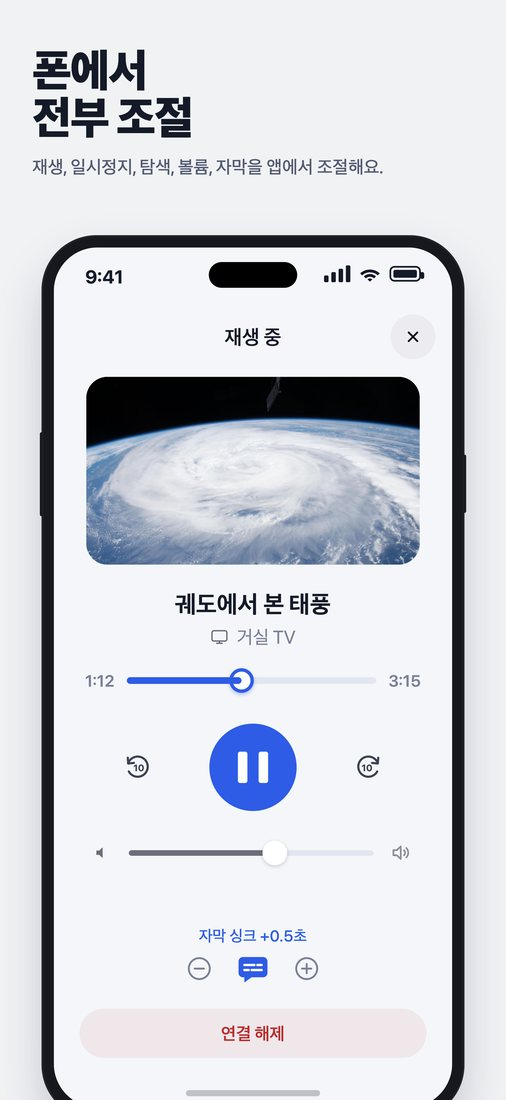
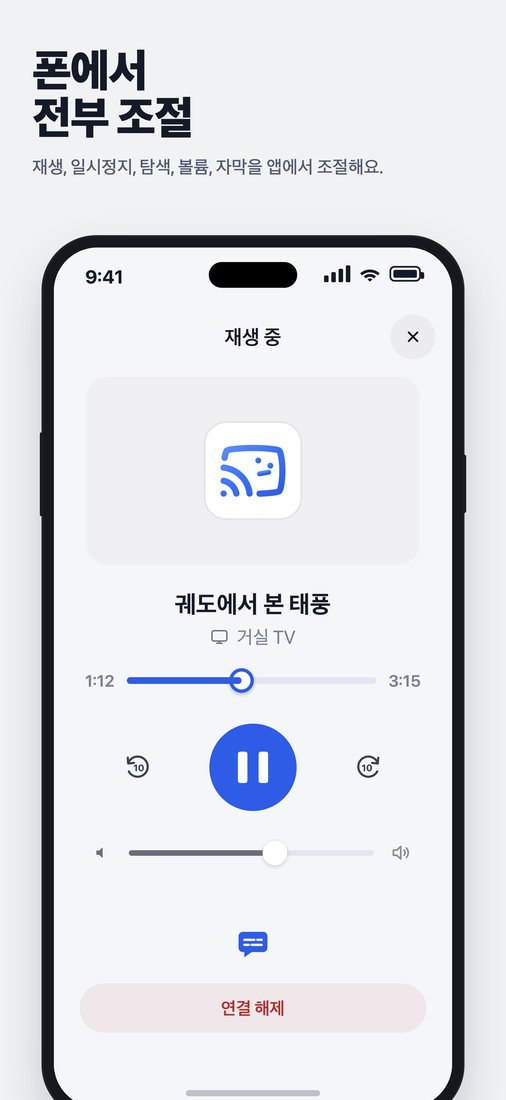
fix: Cast to TV 가이드에서 자막 싱크 조절 문구와 4번 화면을 앱과 맞춤
앱에서 자막 싱크 조절과 캐스트 중 썸네일이 빠져 가이드의 기능 목록과
4번 이미지를 현재 앱 화면에 맞춘다.

Changed region(s): [[0.1482, 0.34, 0.83, 0.5255], [0.3557, 0.8345, 0.6225, 0.9582]]

diff --git a/cast-to-tv/guide/index.html b/cast-to-tv/guide/index.html
@@ -111,7 +111,7 @@
     <h2>이런 것까지 됩니다</h2>
     <ul class="checks">
       <li>m3u8 라이브 방송, MP4·WebM·MOV 영상</li>
-      <li>자막(WebVTT) 표시와 싱크 조절</li>
+      <li>자막(WebVTT) 표시</li>
       <li>폰에 저장된 영상도 TV로</li>
       <li>잠금화면에서 재생·일시정지·탐색</li>
       <li>다른 앱 써도 TV는 계속 재생</li>

diff --git a/cast-to-tv/guide/en/index.html b/cast-to-tv/guide/en/index.html
@@ -111,7 +111,7 @@
     <h2>What it can do</h2>
     <ul class="checks">
       <li>M3U8 live streams, MP4, WebM and MOV videos</li>
-      <li>Subtitles (WebVTT) with sync adjustment</li>
+      <li>Subtitles (WebVTT)</li>
       <li>Videos saved on your phone, on the TV</li>
       <li>Play, pause and seek from the lock screen</li>
       <li>Keeps playing on the TV while you use other apps</li>
